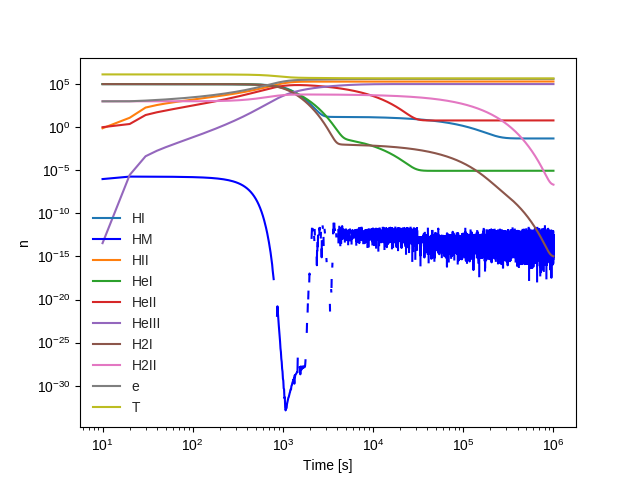
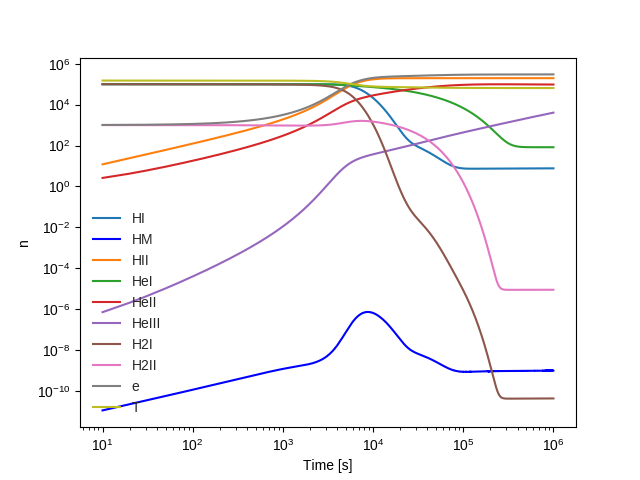
Calculate initial energy from given temperature, and update temperature using that constant internal energy

diff --git a/Solver.py b/Solver.py
@@ -6,6 +6,7 @@ import numpy as np
 import time
 
 T = 0
+energy = 0
 
 def updater(t, state):
 
@@ -65,22 +66,21 @@ def updater(t, state):
 
 
 
-n_total = 5
-T = 30000.
 
+#n_total = input("Input N where 10^N is the initial number of H, He, and H2...")
 #h_ionized_frac = input("Input initial H ionization fraction...")
 #he_ionized_frac = input("Input initial He ionization fraction...")
 #h_mol_ionized_frac = input("Input initial molecular H ionization fraction...")
-#density = input("Input density")
+#T = input("Input temperature...")
 #final_t = input("Input time to evolve to...")
 
+n_total = 5
 h_ionized_frac = -6
 he_ionized_frac = -5
 h_mol_ionized_frac = -2
-density = 100
+T = 150000
 final_t = 1000000
 safety_factor = 100000
-
 
 n_HI_initial = 10**n_total * (1.0 - 10**h_ionized_frac)
 n_HM_initial = 0
@@ -96,15 +96,15 @@ n_e_initial = n_HII_initial + n_HeII_initial + n_H2II_initial
 state_vector = np.array([n_HI_initial, n_HM_initial, n_HII_initial, \
                          n_HeI_initial, n_HeII_initial, n_HeIII_initial, \
                          n_H2I_initial, n_H2II_initial, n_e_initial, T])
+energy = rr.energy_from_temp(state_vector, T)
 
 
+#Setup and run integrator until final_t
 integrator = sint.ode(updater)
-#integrator.set_integrator('vode',nsteps=50000,method='bdf')
 integrator.set_initial_value(state_vector, t=0)
 state_vector_values = []
 ts = []
 dt = final_t / safety_factor
-
 
 ts.append(integrator.t)
 state_vector_values.append(integrator.y)
@@ -117,13 +117,16 @@ while integrator.t < final_t:
     integrator.y[8] = integrator.y[2] + integrator.y[4] + 2*integrator.y[5] \
                     + integrator.y[7] - integrator.y[1]
 
-    T = rr.temperature(integrator.y, density, T)
+    T = rr.temperature(integrator.y, T, energy)
     #print(T)
     integrator.y[9] = T
 
     state_vector_values.append(integrator.y)
 
 
+
+
+#Graph values as a function of time
 state_vector_values = np.array(state_vector_values)
 ts = np.array(ts)
 plt.loglog(ts, state_vector_values[:,0], label='HI')
@@ -140,6 +143,6 @@ plt.loglog(ts, state_vector_values[:,9], label='T')
 mpl.style.use('seaborn')
 
 plt.xlabel("Time [s]")
-plt.ylabel("n")
+plt.ylabel("N")
 plt.legend()
 plt.savefig("simulation.png")

diff --git a/CalcReactionRates.py b/CalcReactionRates.py
@@ -12,7 +12,7 @@ mh = 1.67262171 * (10**-24)
 #Tiny
 tiny =1.e-20
 
-minimum_temperature = 1.0
+gamma = 1.66
 
 import numpy as np
 #  ---1:--       HI    + e   -> HII   + 2e
@@ -37,13 +37,23 @@ import numpy as np
 #  ---57--       HI    + HI  -> HII   + HI    + e
 #  ---58--       HI    + HeI -> HII   + HeI   + e
 
-
-def temperature(state, density, T):
+def energy_from_temp(state, T):
     HI = state[0]; HM = state[1]; HII = state[2]; HeI = state[3]
     HeII = state[4]; HeIII = state[5]; H2I = state[6]; H2II = state[7]
     e = state[8]
 
-    temperature_units = 5000000 * (1.66 - 1) * mh / kboltz
+    mu = (HI + HM + HII + 4*HeI + 4*HeII + 4*HeIII + 2*H2I + 2*H2II) / \
+         (HI + HM + HII + HeI + HeII + HeIII + H2I + H2II + e)
+
+    energy = (kboltz * T) / ((gamma - 1) * mu * mh)
+    return energy
+
+def temperature(state, T, energy):
+    HI = state[0]; HM = state[1]; HII = state[2]; HeI = state[3]
+    HeII = state[4]; HeIII = state[5]; H2I = state[6]; H2II = state[7]
+    e = state[8]
+
+    temperature_units = energy * (gamma - 1) * mh / kboltz
     mu = (HI + HM + HII + 4*HeI + 4*HeII + 4*HeIII + 2*H2I + 2*H2II) / \
          (HI + HM + HII + HeI + HeII + HeIII + H2I + H2II + e)
     return temperature_units * mu
